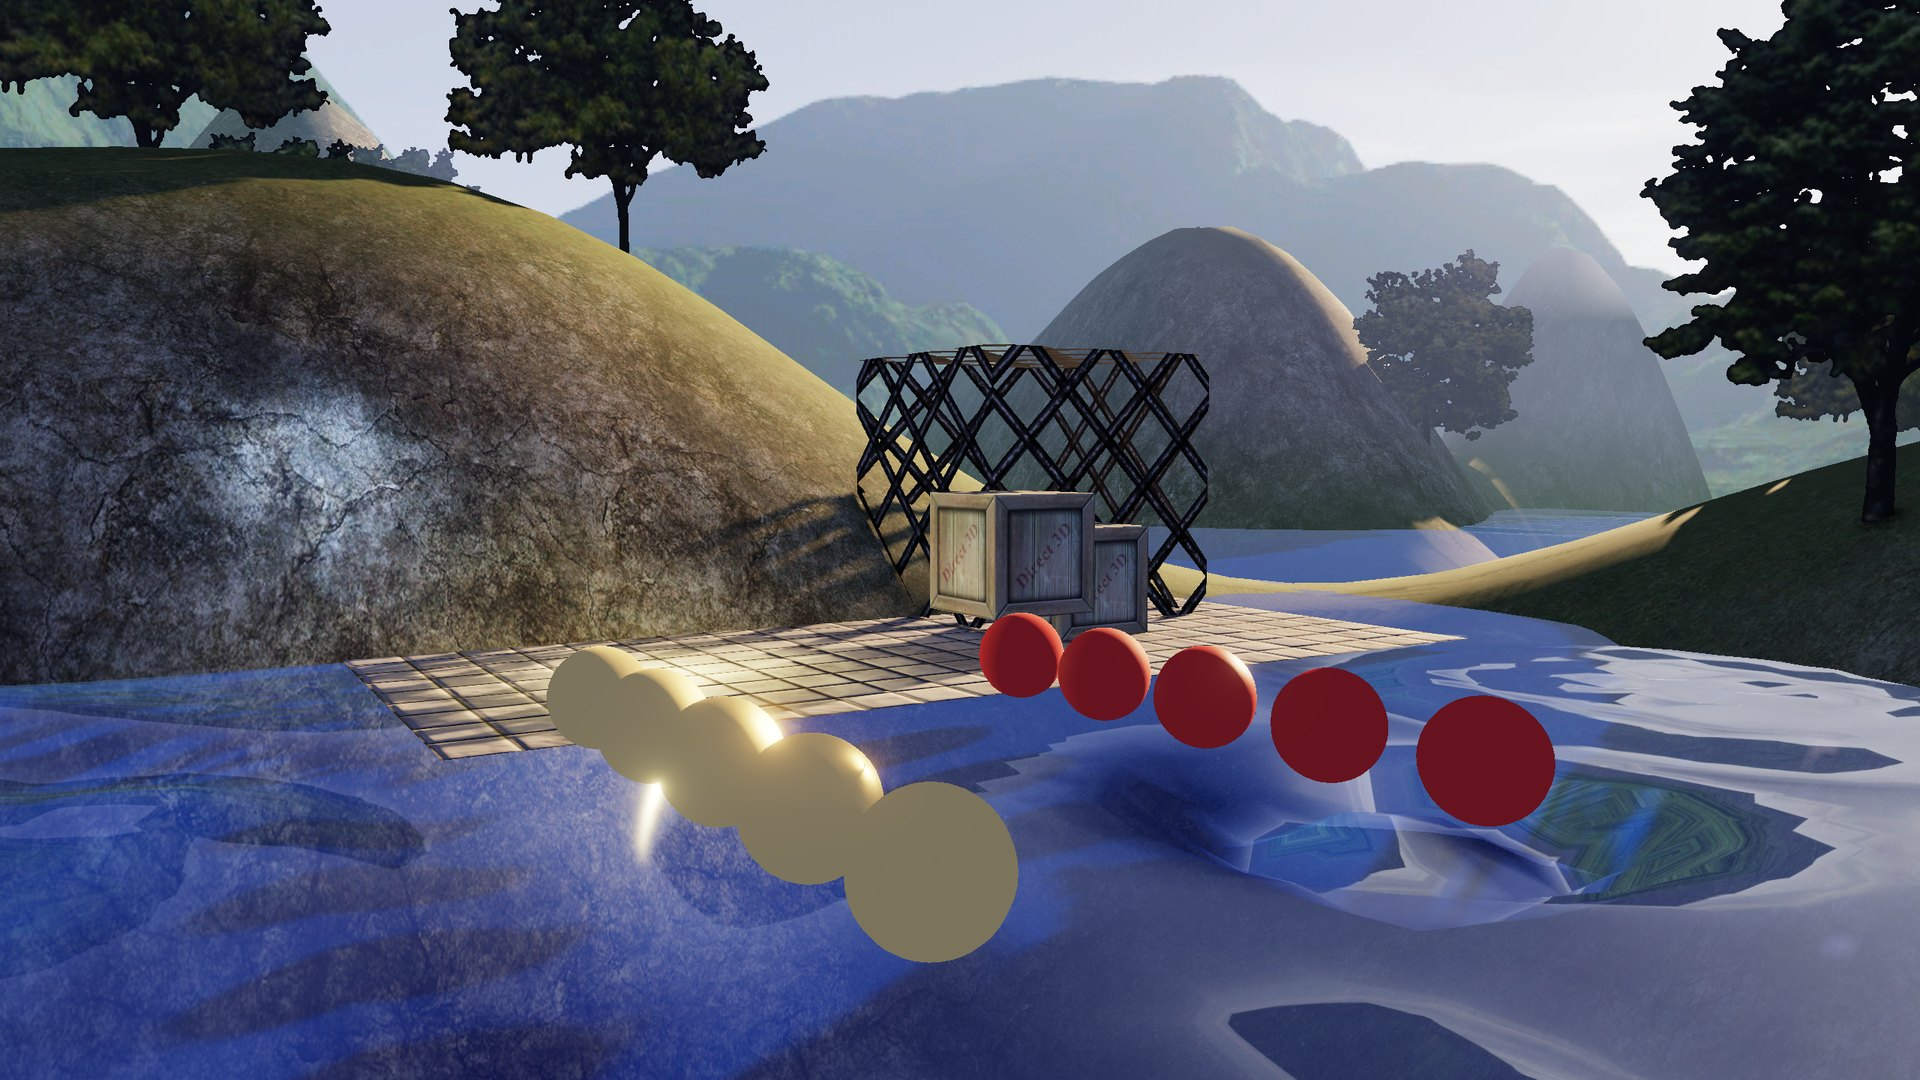
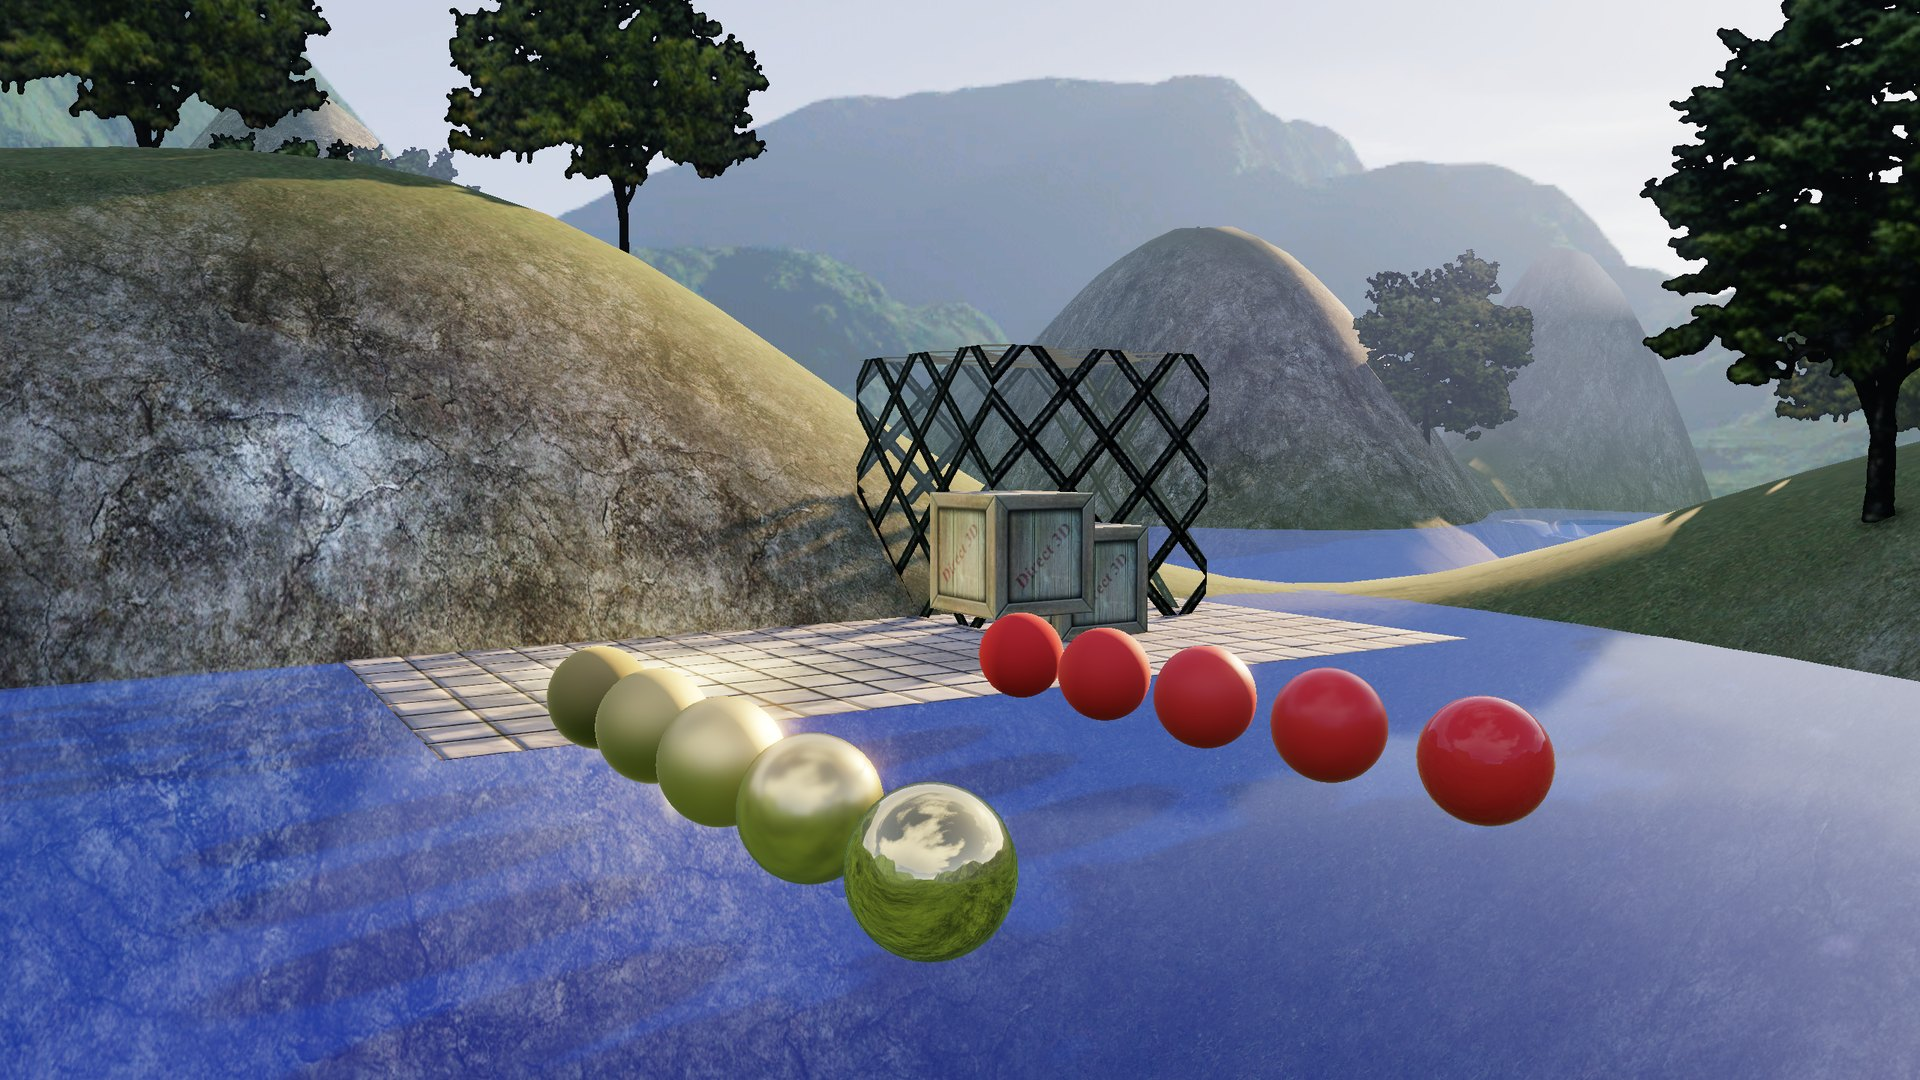
README 首图和「画面」一组用 IBL 重拍
- hero.jpg（1920×1080）和 p2～p7（1280×720）按原来的 7 个预设机位重拍：延迟渲染 + SSAO + IBL + Bloom，2560×1440 缩放，不画面板
- 删掉"这一组截图拍于加 IBL 之前"的说明

diff --git a/README.md b/README.md
@@ -40,8 +40,6 @@
 | ![法线贴图地板](docs/p6_normal_map.jpg) | ![PBR 测试球](docs/p7_pbr.jpg) |
 | **法线贴图地板**：砖缝凹凸来自法线贴图 | **PBR 测试球**：一排从光滑到粗糙，金属 / 非金属各一排 |
 
-<sub>这一组截图拍于加 IBL 之前（环境光还是常数），加了 IBL 以后的样子见下面的 [IBL](#ibl基于图像的光照) 一节。</sub>
-
 ## 延迟渲染与 G-Buffer
 
 ![G-Buffer 调试视图](docs/gbuffer.jpg)
